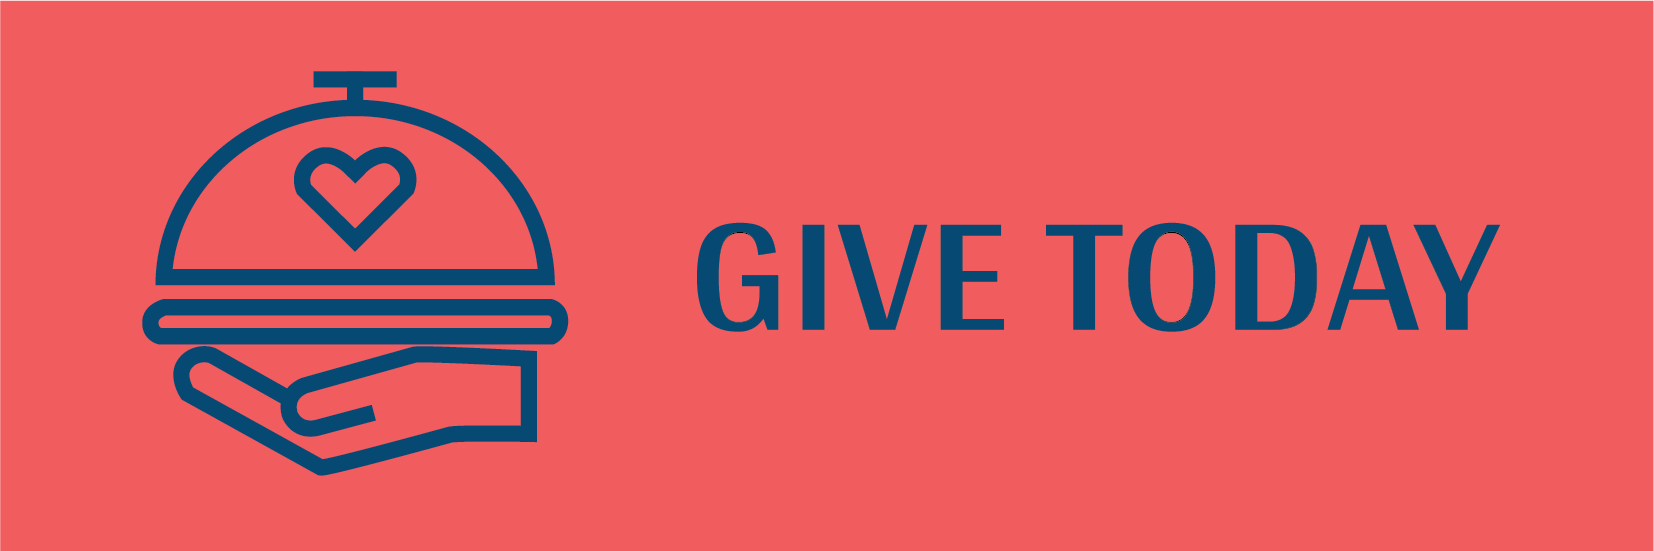
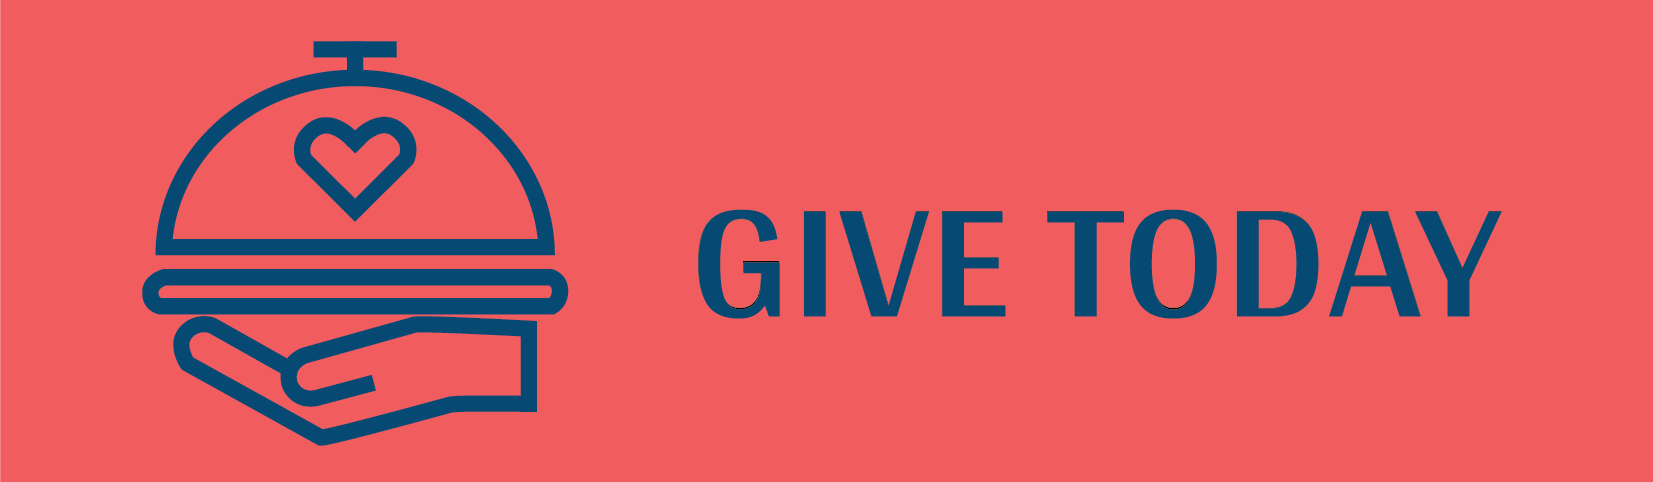
Westside FB Spacing
Banner spacing and donate button padding in about

diff --git a/westsidefoodbank/main.css b/westsidefoodbank/main.css
@@ -46,7 +46,7 @@ body {
 
 .banner {
     width: 100%;
-    height: 450px;
+    height: 400px;
     background-color: white;
     background-position: center;
     background-repeat: no-repeat;
@@ -622,10 +622,6 @@ p {
         grid-gap: 20px;
     }
 
-    a:hover {
-        transform: scale(1.1);
-    }
-
     /* HELP */
     .grid-r {
         grid-template-columns: 1fr 2fr;
@@ -694,6 +690,7 @@ p {
         margin-bottom: auto;
         margin-right: 40px;
         line-height: 35px;
+        text-align: left;
     }
 
     /* NEWS */
@@ -869,6 +866,14 @@ p {
 
     .grid-about-p .blurb {
         padding: 0px;
+    }
+
+    a:hover {
+        transform: scale(1.1);
+    }
+
+    .red .pg-img a{
+        padding: 20px;
     }
 
     /* HELP */

diff --git a/westsidefoodbank/need.html b/westsidefoodbank/need.html
@@ -239,7 +239,7 @@
                             </div>
                             <p>8846 W Pico Blvd.</p>
                             <p>Los Angeles, CA 90035</p>
-                            <a href="tel:310-288-0286">(310) 288-0286</a>
+                            <a href="tel:310-288-0286">(310) 288-0286</a><br>
                             <a href="tel:818-988-7682">(818) 988-7682</a>
                         </div>
                     </div>

diff --git a/westsidefoodbank/about.html b/westsidefoodbank/about.html
@@ -145,9 +145,9 @@
                         </p>
                     </div>
 
-                    <div class="drop">
+                    <a href="donate.html">
                         <img src="images/about/donate-square.png" alt="Donate Today">
-                    </div>
+                    </a>
 
                 </div>
             </div>
